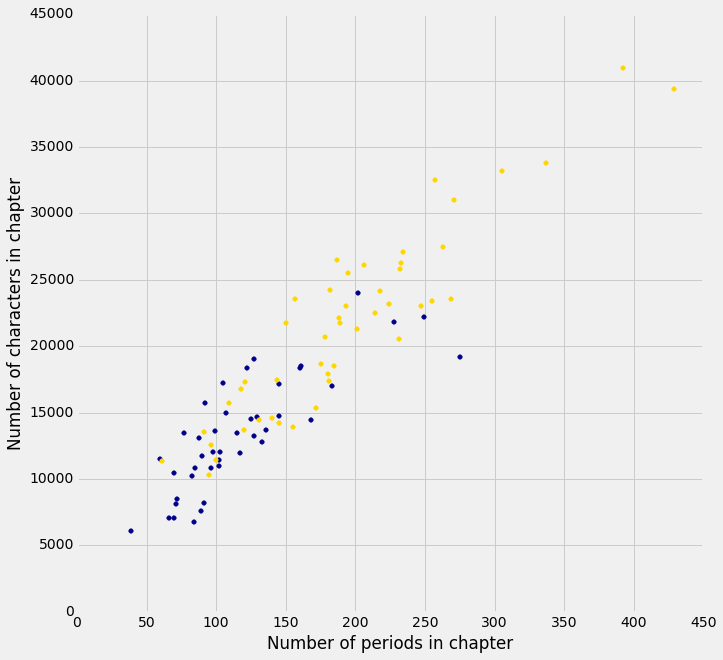
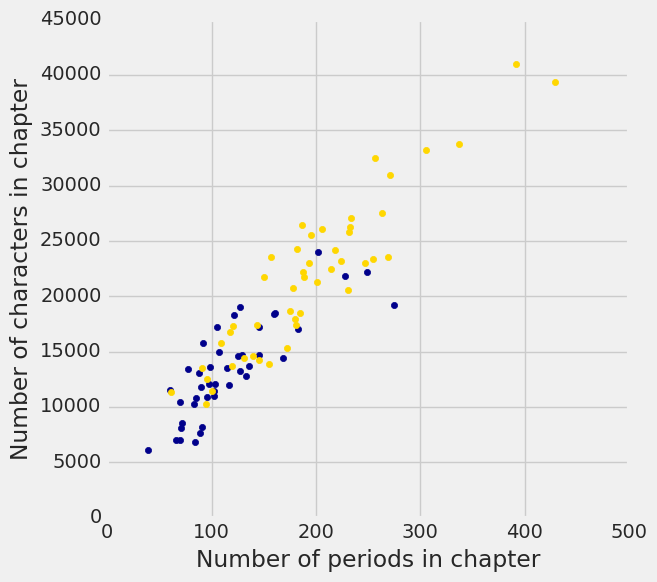
upgrade to gitbook 3.x.x

diff --git a/notebooks-html/Another_Kind_Of_Character.html b/notebooks-html/Another_Kind_Of_Character.html
@@ -10,34 +10,21 @@
   });
 </script>
 <div class="inner_cell">
-    <div class="input_area">
-<div class=" highlight hl-ipython3"><pre><span></span><span class="c1">#HIDDEN</span>
-<span class="c1"># Read two books, fast!  (We're just repeating the setup from the previous section.)</span>
-<span class="n">huck_finn_url</span> <span class="o">=</span> <span class="s1">'https://github.com/data-8/data8assets/raw/gh-pages/lec/huck_finn.txt'</span>
-<span class="n">huck_finn_text</span> <span class="o">=</span> <span class="n">read_url</span><span class="p">(</span><span class="n">huck_finn_url</span><span class="p">)</span>
-<span class="n">huck_finn_chapters</span> <span class="o">=</span> <span class="n">huck_finn_text</span><span class="o">.</span><span class="n">split</span><span class="p">(</span><span class="s1">'CHAPTER '</span><span class="p">)[</span><span class="mi">44</span><span class="p">:]</span>
-
-<span class="n">little_women_url</span> <span class="o">=</span> <span class="s1">'https://github.com/data-8/data8assets/raw/gh-pages/lec/little_women.txt'</span>
-<span class="n">little_women_text</span> <span class="o">=</span> <span class="n">read_url</span><span class="p">(</span><span class="n">little_women_url</span><span class="p">)</span>
-<span class="n">little_women_chapters</span> <span class="o">=</span> <span class="n">little_women_text</span><span class="o">.</span><span class="n">split</span><span class="p">(</span><span class="s1">'CHAPTER '</span><span class="p">)[</span><span class="mi">1</span><span class="p">:]</span>
-</pre></div></div></div>
-<div class="inner_cell">
 <div class="text_cell_render border-box-sizing rendered_html">
 <p>In some situations, the relationships between quantities allow us to make predictions. This text will explore how to make accurate predictions based on incomplete information and develop methods for combining multiple sources of uncertain information to make decisions.</p>
-<p>As an example of visualizing information derived from multiple sources, let us first use the computer to get some information that would be tedious to acquire by hand.</p>
-<p>In the context of novels, the word "character" has a second meaning: a printed symbol such as a letter or number or punctuation symbol. Here, we ask the computer to count the number of characters and the number of periods in each chapter of both <em>Huckleberry Finn</em> and <em>Little Women</em>.</p></div></div>
+<p>As an example of visualizing information derived from multiple sources, let us first use the computer to get some information that would be tedious to acquire by hand. In the context of novels, the word "character" has a second meaning: a printed symbol such as a letter or number or punctuation symbol. Here, we ask the computer to count the number of characters and the number of periods in each chapter of both <em>Huckleberry Finn</em> and <em>Little Women</em>.</p></div></div>
 <div class="inner_cell">
     <div class="input_area">
 <div class=" highlight hl-ipython3"><pre><span></span><span class="c1"># In each chapter, count the number of all characters;</span>
 <span class="c1"># call this the "length" of the chapter.</span>
 <span class="c1"># Also count the number of periods.</span>
 
-<span class="n">chars_periods_HF</span> <span class="o">=</span> <span class="n">Table</span><span class="p">()</span><span class="o">.</span><span class="n">with_columns</span><span class="p">([</span>
-        <span class="s1">'HF Chapter Length'</span><span class="p">,</span> <span class="p">[</span><span class="nb">len</span><span class="p">(</span><span class="n">s</span><span class="p">)</span> <span class="k">for</span> <span class="n">s</span> <span class="ow">in</span> <span class="n">huck_finn_chapters</span><span class="p">],</span>
+<span class="n">chars_periods_huck_finn</span> <span class="o">=</span> <span class="n">Table</span><span class="p">()</span><span class="o">.</span><span class="n">with_columns</span><span class="p">([</span>
+        <span class="s1">'Huck Finn Chapter Length'</span><span class="p">,</span> <span class="p">[</span><span class="nb">len</span><span class="p">(</span><span class="n">s</span><span class="p">)</span> <span class="k">for</span> <span class="n">s</span> <span class="ow">in</span> <span class="n">huck_finn_chapters</span><span class="p">],</span>
         <span class="s1">'Number of Periods'</span><span class="p">,</span> <span class="n">np</span><span class="o">.</span><span class="n">char</span><span class="o">.</span><span class="n">count</span><span class="p">(</span><span class="n">huck_finn_chapters</span><span class="p">,</span> <span class="s1">'.'</span><span class="p">)</span>
     <span class="p">])</span>
-<span class="n">chars_periods_LW</span> <span class="o">=</span> <span class="n">Table</span><span class="p">()</span><span class="o">.</span><span class="n">with_columns</span><span class="p">([</span>
-        <span class="s1">'LW Chapter Length'</span><span class="p">,</span> <span class="p">[</span><span class="nb">len</span><span class="p">(</span><span class="n">s</span><span class="p">)</span> <span class="k">for</span> <span class="n">s</span> <span class="ow">in</span> <span class="n">little_women_chapters</span><span class="p">],</span>
+<span class="n">chars_periods_little_women</span> <span class="o">=</span> <span class="n">Table</span><span class="p">()</span><span class="o">.</span><span class="n">with_columns</span><span class="p">([</span>
+        <span class="s1">'Little Women Chapter Length'</span><span class="p">,</span> <span class="p">[</span><span class="nb">len</span><span class="p">(</span><span class="n">s</span><span class="p">)</span> <span class="k">for</span> <span class="n">s</span> <span class="ow">in</span> <span class="n">little_women_chapters</span><span class="p">],</span>
         <span class="s1">'Number of Periods'</span><span class="p">,</span> <span class="n">np</span><span class="o">.</span><span class="n">char</span><span class="o">.</span><span class="n">count</span><span class="p">(</span><span class="n">little_women_chapters</span><span class="p">,</span> <span class="s1">'.'</span><span class="p">)</span>
     <span class="p">])</span>
 </pre></div></div></div>
@@ -46,56 +33,54 @@
 <p>Here are the data for <em>Huckleberry Finn</em>. Each row of the table corresponds to one chapter of the novel and displays the number of characters as well as the number of periods in the chapter. Not surprisingly, chapters with fewer characters also tend to have fewer periods, in general – the shorter the chapter, the fewer sentences there tend to be, and vice versa. The relation is not entirely predictable, however, as sentences are of varying lengths and can involve other punctuation such as question marks.</p></div></div>
 <div class="inner_cell">
     <div class="input_area">
-<div class=" highlight hl-ipython3"><pre><span></span><span class="c1"># The counts for Huckleberry Finn</span>
-
-<span class="n">chars_periods_HF</span>
+<div class=" highlight hl-ipython3"><pre><span></span><span class="n">chars_periods_huck_finn</span>
 </pre></div></div></div>
 <div class="output_html rendered_html output_subarea output_execute_result">
 <table border="1" class="dataframe">
     <thead>
         <tr>
-            <th>HF Chapter Length</th> <th>Number of Periods</th>
+            <th>Huck Finn Chapter Length</th> <th>Number of Periods</th>
         </tr>
     </thead>
     <tbody>
         <tr>
-            <td>7026             </td> <td>66               </td>
+            <td>7026                    </td> <td>66               </td>
         </tr>
     </tbody>
         <tbody><tr>
-            <td>11982            </td> <td>117              </td>
+            <td>11982                   </td> <td>117              </td>
         </tr>
     </tbody>
         <tbody><tr>
-            <td>8529             </td> <td>72               </td>
+            <td>8529                    </td> <td>72               </td>
         </tr>
     </tbody>
         <tbody><tr>
-            <td>6799             </td> <td>84               </td>
+            <td>6799                    </td> <td>84               </td>
         </tr>
     </tbody>
         <tbody><tr>
-            <td>8166             </td> <td>91               </td>
+            <td>8166                    </td> <td>91               </td>
         </tr>
     </tbody>
         <tbody><tr>
-            <td>14550            </td> <td>125              </td>
+            <td>14550                   </td> <td>125              </td>
         </tr>
     </tbody>
         <tbody><tr>
-            <td>13218            </td> <td>127              </td>
+            <td>13218                   </td> <td>127              </td>
         </tr>
     </tbody>
         <tbody><tr>
-            <td>22208            </td> <td>249              </td>
+            <td>22208                   </td> <td>249              </td>
         </tr>
     </tbody>
         <tbody><tr>
-            <td>8081             </td> <td>71               </td>
+            <td>8081                    </td> <td>71               </td>
         </tr>
     </tbody>
         <tbody><tr>
-            <td>7036             </td> <td>70               </td>
+            <td>7036                    </td> <td>70               </td>
         </tr>
     </tbody>
 </table>
@@ -105,56 +90,54 @@
 <p>Here are the corresponding data for <em>Little Women</em>.</p></div></div>
 <div class="inner_cell">
     <div class="input_area">
-<div class=" highlight hl-ipython3"><pre><span></span><span class="c1"># The counts for Little Women</span>
-
-<span class="n">chars_periods_LW</span>
+<div class=" highlight hl-ipython3"><pre><span></span><span class="n">chars_periods_little_women</span>
 </pre></div></div></div>
 <div class="output_html rendered_html output_subarea output_execute_result">
 <table border="1" class="dataframe">
     <thead>
         <tr>
-            <th>LW Chapter Length</th> <th>Number of Periods</th>
+            <th>Little Women Chapter Length</th> <th>Number of Periods</th>
         </tr>
     </thead>
     <tbody>
         <tr>
-            <td>21759            </td> <td>189              </td>
+            <td>21759                      </td> <td>189              </td>
         </tr>
     </tbody>
         <tbody><tr>
-            <td>22148            </td> <td>188              </td>
+            <td>22148                      </td> <td>188              </td>
         </tr>
     </tbody>
         <tbody><tr>
-            <td>20558            </td> <td>231              </td>
+            <td>20558                      </td> <td>231              </td>
         </tr>
     </tbody>
         <tbody><tr>
-            <td>25526            </td> <td>195              </td>
+            <td>25526                      </td> <td>195              </td>
         </tr>
     </tbody>
         <tbody><tr>
-            <td>23395            </td> <td>255              </td>
+            <td>23395                      </td> <td>255              </td>
         </tr>
     </tbody>
         <tbody><tr>
-            <td>14622            </td> <td>140              </td>
+            <td>14622                      </td> <td>140              </td>
         </tr>
     </tbody>
         <tbody><tr>
-            <td>14431            </td> <td>131              </td>
+            <td>14431                      </td> <td>131              </td>
         </tr>
     </tbody>
         <tbody><tr>
-            <td>22476            </td> <td>214              </td>
+            <td>22476                      </td> <td>214              </td>
         </tr>
     </tbody>
         <tbody><tr>
-            <td>33767            </td> <td>337              </td>
+            <td>33767                      </td> <td>337              </td>
         </tr>
     </tbody>
         <tbody><tr>
-            <td>18508            </td> <td>185              </td>
+            <td>18508                      </td> <td>185              </td>
         </tr>
     </tbody>
 </table>
@@ -165,9 +148,13 @@
 <p>In the plot below, there is a dot for each chapter in each book. Blue dots correspond to <em>Huckleberry Finn</em> and gold dots to <em>Little Women</em>. The horizontal axis represents the number of periods and the vertical axis represents the number of characters.</p></div></div>
 <div class="inner_cell">
     <div class="input_area">
-<div class=" highlight hl-ipython3"><pre><span></span><span class="n">plots</span><span class="o">.</span><span class="n">figure</span><span class="p">(</span><span class="n">figsize</span><span class="o">=</span><span class="p">(</span><span class="mi">10</span><span class="p">,</span><span class="mi">10</span><span class="p">))</span>
-<span class="n">plots</span><span class="o">.</span><span class="n">scatter</span><span class="p">(</span><span class="n">chars_periods_hf</span><span class="p">[</span><span class="mi">1</span><span class="p">],</span> <span class="n">chars_periods_hf</span><span class="p">[</span><span class="mi">0</span><span class="p">],</span> <span class="n">color</span><span class="o">=</span><span class="s1">'darkblue'</span><span class="p">)</span>
-<span class="n">plots</span><span class="o">.</span><span class="n">scatter</span><span class="p">(</span><span class="n">chars_periods_lw</span><span class="p">[</span><span class="mi">1</span><span class="p">],</span> <span class="n">chars_periods_lw</span><span class="p">[</span><span class="mi">0</span><span class="p">],</span> <span class="n">color</span><span class="o">=</span><span class="s1">'gold'</span><span class="p">)</span>
+<div class=" highlight hl-ipython3"><pre><span></span><span class="n">plots</span><span class="o">.</span><span class="n">figure</span><span class="p">(</span><span class="n">figsize</span><span class="o">=</span><span class="p">(</span><span class="mi">6</span><span class="p">,</span> <span class="mi">6</span><span class="p">))</span>
+<span class="n">plots</span><span class="o">.</span><span class="n">scatter</span><span class="p">(</span><span class="n">chars_periods_huck_finn</span><span class="o">.</span><span class="n">column</span><span class="p">(</span><span class="mi">1</span><span class="p">),</span> 
+              <span class="n">chars_periods_huck_finn</span><span class="o">.</span><span class="n">column</span><span class="p">(</span><span class="mi">0</span><span class="p">),</span> 
+              <span class="n">color</span><span class="o">=</span><span class="s1">'darkblue'</span><span class="p">)</span>
+<span class="n">plots</span><span class="o">.</span><span class="n">scatter</span><span class="p">(</span><span class="n">chars_periods_little_women</span><span class="o">.</span><span class="n">column</span><span class="p">(</span><span class="mi">1</span><span class="p">),</span> 
+              <span class="n">chars_periods_little_women</span><span class="o">.</span><span class="n">column</span><span class="p">(</span><span class="mi">0</span><span class="p">),</span> 
+              <span class="n">color</span><span class="o">=</span><span class="s1">'gold'</span><span class="p">)</span>
 <span class="n">plots</span><span class="o">.</span><span class="n">xlabel</span><span class="p">(</span><span class="s1">'Number of periods in chapter'</span><span class="p">)</span>
 <span class="n">plots</span><span class="o">.</span><span class="n">ylabel</span><span class="p">(</span><span class="s1">'Number of characters in chapter'</span><span class="p">);</span>
 </pre></div></div></div>

diff --git a/notebooks-html/Literary_Characters.html b/notebooks-html/Literary_Characters.html
@@ -10,18 +10,6 @@
   });
 </script>
 <div class="inner_cell">
-    <div class="input_area">
-<div class=" highlight hl-ipython3"><pre><span></span><span class="c1">#HIDDEN</span>
-<span class="c1"># Read two books, fast!  (We're just repeating the setup from the previous section.)</span>
-<span class="n">huck_finn_url</span> <span class="o">=</span> <span class="s1">'https://github.com/data-8/data8assets/raw/gh-pages/lec/huck_finn.txt'</span>
-<span class="n">huck_finn_text</span> <span class="o">=</span> <span class="n">read_url</span><span class="p">(</span><span class="n">huck_finn_url</span><span class="p">)</span>
-<span class="n">huck_finn_chapters</span> <span class="o">=</span> <span class="n">huck_finn_text</span><span class="o">.</span><span class="n">split</span><span class="p">(</span><span class="s1">'CHAPTER '</span><span class="p">)[</span><span class="mi">44</span><span class="p">:]</span>
-
-<span class="n">little_women_url</span> <span class="o">=</span> <span class="s1">'https://github.com/data-8/data8assets/raw/gh-pages/lec/little_women.txt'</span>
-<span class="n">little_women_text</span> <span class="o">=</span> <span class="n">read_url</span><span class="p">(</span><span class="n">little_women_url</span><span class="p">)</span>
-<span class="n">little_women_chapters</span> <span class="o">=</span> <span class="n">little_women_text</span><span class="o">.</span><span class="n">split</span><span class="p">(</span><span class="s1">'CHAPTER '</span><span class="p">)[</span><span class="mi">1</span><span class="p">:]</span>
-</pre></div></div></div>
-<div class="inner_cell">
 <div class="text_cell_render border-box-sizing rendered_html">
 <p><em>The Adventures of Huckleberry Finn</em> describes a journey that Huck and Jim take along the Mississippi River. Tom Sawyer joins them towards the end as the action heats up. Having loaded the text, we can quickly visualize how many times these characters have each been mentioned at any point in the book.</p></div></div>
 <div class="inner_cell">
@@ -33,21 +21,19 @@
         <span class="s1">'Tom'</span><span class="p">,</span> <span class="n">np</span><span class="o">.</span><span class="n">char</span><span class="o">.</span><span class="n">count</span><span class="p">(</span><span class="n">huck_finn_chapters</span><span class="p">,</span> <span class="s1">'Tom'</span><span class="p">),</span>
         <span class="s1">'Huck'</span><span class="p">,</span> <span class="n">np</span><span class="o">.</span><span class="n">char</span><span class="o">.</span><span class="n">count</span><span class="p">(</span><span class="n">huck_finn_chapters</span><span class="p">,</span> <span class="s1">'Huck'</span><span class="p">)</span>
     <span class="p">])</span>
-</pre></div></div></div>
-<div class="inner_cell">
-    <div class="input_area">
-<div class=" highlight hl-ipython3"><pre><span></span><span class="c1"># Plot the cumulative counts:</span>
+
+<span class="c1"># Plot the cumulative counts:</span>
 <span class="c1"># how many times in Chapter 1, how many times in Chapters 1 and 2, and so on.</span>
 
 <span class="n">cum_counts</span> <span class="o">=</span> <span class="n">counts</span><span class="o">.</span><span class="n">cumsum</span><span class="p">()</span><span class="o">.</span><span class="n">with_column</span><span class="p">(</span><span class="s1">'Chapter'</span><span class="p">,</span> <span class="n">np</span><span class="o">.</span><span class="n">arange</span><span class="p">(</span><span class="mi">1</span><span class="p">,</span> <span class="mi">44</span><span class="p">,</span> <span class="mi">1</span><span class="p">))</span>
 <span class="n">cum_counts</span><span class="o">.</span><span class="n">plot</span><span class="p">(</span><span class="n">column_for_xticks</span><span class="o">=</span><span class="mi">3</span><span class="p">)</span>
-<span class="n">plots</span><span class="o">.</span><span class="n">title</span><span class="p">(</span><span class="s1">'Cumulative Number of Times Name Appears'</span><span class="p">);</span>
+<span class="n">plots</span><span class="o">.</span><span class="n">title</span><span class="p">(</span><span class="s1">'Cumulative Number of Times Each Name Appears'</span><span class="p">,</span> <span class="n">y</span><span class="o">=</span><span class="mf">1.08</span><span class="p">);</span>
 </pre></div></div></div>
 <div class="output_png output_subarea ">
-<img src="/notebooks-images/Literary_Characters_4_0.png"/></div>
+<img src="/notebooks-images/Literary_Characters_3_0.png"/></div>
 <div class="inner_cell">
 <div class="text_cell_render border-box-sizing rendered_html">
-<p>In the plot above, the horizontal axis shows chapter numbers and the vertical axis shows how many times each character has been mentioned upto and including that chapter.</p>
+<p>In the plot above, the horizontal axis shows chapter numbers and the vertical axis shows how many times each character has been mentioned up to and including that chapter.</p>
 <p>You can see that Jim is a central character by the large number of times his name appears. Notice how Tom is hardly mentioned for much of the book until he arrives and joins Huck and Jim, after Chapter 30. His curve and Jim's rise sharply at that point, as the action involving both of them intensifies. As for Huck, his name hardly appears at all, because he is the narrator.</p></div></div>
 <div class="inner_cell">
 <div class="text_cell_render border-box-sizing rendered_html">
@@ -115,27 +101,23 @@
     <div class="input_area">
 <div class=" highlight hl-ipython3"><pre><span></span><span class="c1"># Counts of names in the chapters of Little Women</span>
 
-<span class="n">people</span> <span class="o">=</span> <span class="p">[</span><span class="s1">'Amy'</span><span class="p">,</span> <span class="s1">'Beth'</span><span class="p">,</span> <span class="s1">'Jo'</span><span class="p">,</span> <span class="s1">'Laurie'</span><span class="p">,</span> <span class="s1">'Meg'</span><span class="p">]</span>
-<span class="n">people_counts</span> <span class="o">=</span> <span class="p">{</span><span class="n">pp</span><span class="p">:</span> <span class="n">np</span><span class="o">.</span><span class="n">char</span><span class="o">.</span><span class="n">count</span><span class="p">(</span><span class="n">little_women_chapters</span><span class="p">,</span> <span class="n">pp</span><span class="p">)</span> <span class="k">for</span> <span class="n">pp</span> <span class="ow">in</span> <span class="n">people</span><span class="p">}</span>
-
 <span class="n">counts</span> <span class="o">=</span> <span class="n">Table</span><span class="p">()</span><span class="o">.</span><span class="n">with_columns</span><span class="p">([</span>
-        <span class="s1">'Amy'</span><span class="p">,</span> <span class="n">people_counts</span><span class="p">[</span><span class="s1">'Amy'</span><span class="p">],</span>
-        <span class="s1">'Beth'</span><span class="p">,</span> <span class="n">people_counts</span><span class="p">[</span><span class="s1">'Beth'</span><span class="p">],</span>
-        <span class="s1">'Jo'</span><span class="p">,</span> <span class="n">people_counts</span><span class="p">[</span><span class="s1">'Jo'</span><span class="p">],</span>
-        <span class="s1">'Laurie'</span><span class="p">,</span> <span class="n">people_counts</span><span class="p">[</span><span class="s1">'Laurie'</span><span class="p">],</span>
-        <span class="s1">'Meg'</span><span class="p">,</span> <span class="n">people_counts</span><span class="p">[</span><span class="s1">'Meg'</span><span class="p">]</span>
+        <span class="s1">'Amy'</span><span class="p">,</span> <span class="n">np</span><span class="o">.</span><span class="n">char</span><span class="o">.</span><span class="n">count</span><span class="p">(</span><span class="n">little_women_chapters</span><span class="p">,</span> <span class="s1">'Amy'</span><span class="p">),</span>
+        <span class="s1">'Beth'</span><span class="p">,</span> <span class="n">np</span><span class="o">.</span><span class="n">char</span><span class="o">.</span><span class="n">count</span><span class="p">(</span><span class="n">little_women_chapters</span><span class="p">,</span> <span class="s1">'Beth'</span><span class="p">),</span>
+        <span class="s1">'Jo'</span><span class="p">,</span> <span class="n">np</span><span class="o">.</span><span class="n">char</span><span class="o">.</span><span class="n">count</span><span class="p">(</span><span class="n">little_women_chapters</span><span class="p">,</span> <span class="s1">'Jo'</span><span class="p">),</span>
+        <span class="s1">'Meg'</span><span class="p">,</span> <span class="n">np</span><span class="o">.</span><span class="n">char</span><span class="o">.</span><span class="n">count</span><span class="p">(</span><span class="n">little_women_chapters</span><span class="p">,</span> <span class="s1">'Meg'</span><span class="p">),</span>
+        <span class="s1">'Laurie'</span><span class="p">,</span> <span class="n">np</span><span class="o">.</span><span class="n">char</span><span class="o">.</span><span class="n">count</span><span class="p">(</span><span class="n">little_women_chapters</span><span class="p">,</span> <span class="s1">'Laurie'</span><span class="p">),</span>
+
     <span class="p">])</span>
-</pre></div></div></div>
-<div class="inner_cell">
-    <div class="input_area">
-<div class=" highlight hl-ipython3"><pre><span></span><span class="c1"># Plot the cumulative counts.</span>
+
+<span class="c1"># Plot the cumulative counts.</span>
 
 <span class="n">cum_counts</span> <span class="o">=</span> <span class="n">counts</span><span class="o">.</span><span class="n">cumsum</span><span class="p">()</span><span class="o">.</span><span class="n">with_column</span><span class="p">(</span><span class="s1">'Chapter'</span><span class="p">,</span> <span class="n">np</span><span class="o">.</span><span class="n">arange</span><span class="p">(</span><span class="mi">1</span><span class="p">,</span> <span class="mi">48</span><span class="p">,</span> <span class="mi">1</span><span class="p">))</span>
 <span class="n">cum_counts</span><span class="o">.</span><span class="n">plot</span><span class="p">(</span><span class="n">column_for_xticks</span><span class="o">=</span><span class="mi">5</span><span class="p">)</span>
-<span class="n">plots</span><span class="o">.</span><span class="n">title</span><span class="p">(</span><span class="s1">'Cumulative Number of Times Name Appears'</span><span class="p">);</span>
+<span class="n">plots</span><span class="o">.</span><span class="n">title</span><span class="p">(</span><span class="s1">'Cumulative Number of Times Each Name Appears'</span><span class="p">,</span> <span class="n">y</span><span class="o">=</span><span class="mf">1.08</span><span class="p">);</span>
 </pre></div></div></div>
 <div class="output_png output_subarea ">
-<img src="/notebooks-images/Literary_Characters_10_0.png"/></div>
+<img src="/notebooks-images/Literary_Characters_8_0.png"/></div>
 <div class="inner_cell">
 <div class="text_cell_render border-box-sizing rendered_html">
 <p>Laurie is a young man who marries one of the girls in the end. See if you can use the plots to guess which one.</p></div></div></div>

diff --git a/notebooks-html/Plotting_the_Classics.html b/notebooks-html/Plotting_the_Classics.html
@@ -13,22 +13,22 @@
 <div class="text_cell_render border-box-sizing rendered_html">
 <p>In this example, we will explore statistics for two classic novels: <em>The Adventures of Huckleberry Finn</em> by Mark Twain, and <em>Little Women</em> by Louisa May Alcott. The text of any book can be read by a computer at great speed. Books published before 1923 are currently in the <em>public domain</em>, meaning that everyone has the right to copy or use the text in any way. <a href="http://www.gutenberg.org/">Project Gutenberg</a> is a website that publishes public domain books online. Using Python, we can load the text of these books directly from the web.</p>
 <p>This example is meant to illustrate some of the broad themes of this text. Don't worry if the details of the program don't yet make sense. Instead, focus on interpreting the images generated below. Later sections of the text will describe most of the features of the Python programming language used below.</p>
-<p>First, we read the text of both books into lists of chapters, called <code>huck_finn_chapters</code> and <code>little_women_chapters</code>. In Python, a name cannot contain any spaces, and so we will of often use an underscore <code>_</code> to stand in for a space. The <code>=</code> in the lines below give a name on the left to the result of some computation described on the right. A <em>uniform resource locator</em> or <em>URL</em> is an address on the Internet for some content; in this case, the text of a book.</p></div></div>
+<p>First, we read the text of both books into lists of chapters, called <code>huck_finn_chapters</code> and <code>little_women_chapters</code>. In Python, a name cannot contain any spaces, and so we will often use an underscore <code>_</code> to stand in for a space. The <code>=</code> in the lines below give a name on the left to the result of some computation described on the right. A <em>uniform resource locator</em> or <em>URL</em> is an address on the Internet for some content; in this case, the text of a book. The <code>#</code> symbol starts a comment, which is ignored by the computer but helpful for people reading the code.</p></div></div>
 <div class="inner_cell">
     <div class="input_area">
 <div class=" highlight hl-ipython3"><pre><span></span><span class="c1"># Read two books, fast!</span>
 
-<span class="n">huck_finn_url</span> <span class="o">=</span> <span class="s1">'https://github.com/data-8/data8assets/raw/gh-pages/lec/huck_finn.txt'</span>
+<span class="n">huck_finn_url</span> <span class="o">=</span> <span class="s1">'http://data8.org/data8assets/lec/huck_finn.txt'</span>
 <span class="n">huck_finn_text</span> <span class="o">=</span> <span class="n">read_url</span><span class="p">(</span><span class="n">huck_finn_url</span><span class="p">)</span>
 <span class="n">huck_finn_chapters</span> <span class="o">=</span> <span class="n">huck_finn_text</span><span class="o">.</span><span class="n">split</span><span class="p">(</span><span class="s1">'CHAPTER '</span><span class="p">)[</span><span class="mi">44</span><span class="p">:]</span>
 
-<span class="n">little_women_url</span> <span class="o">=</span> <span class="s1">'https://github.com/data-8/data8assets/raw/gh-pages/lec/little_women.txt'</span>
+<span class="n">little_women_url</span> <span class="o">=</span> <span class="s1">'http://data8.org/data8assets/lec/little_women.txt'</span>
 <span class="n">little_women_text</span> <span class="o">=</span> <span class="n">read_url</span><span class="p">(</span><span class="n">little_women_url</span><span class="p">)</span>
 <span class="n">little_women_chapters</span> <span class="o">=</span> <span class="n">little_women_text</span><span class="o">.</span><span class="n">split</span><span class="p">(</span><span class="s1">'CHAPTER '</span><span class="p">)[</span><span class="mi">1</span><span class="p">:]</span>
 </pre></div></div></div>
 <div class="inner_cell">
 <div class="text_cell_render border-box-sizing rendered_html">
-<p>While a computer cannot understand the text of a book, we can still use it to provide us with some insight into the structure of the text. The name <code>huck_finn_chapters</code> is currently bound to a list of all the chapters in the book. We can place those chapters into a table to see how each begins.</p></div></div>
+<p>While a computer cannot understand the text of a book, it can provide us with some insight into the structure of the text. The name <code>huck_finn_chapters</code> is currently bound to a list of all the chapters in the book. We can place them into a table to see how each chapter begins.</p></div></div>
 <div class="inner_cell">
     <div class="input_area">
 <div class=" highlight hl-ipython3"><pre><span></span><span class="c1"># Display the chapters of Huckleberry Finn in a table.</span>

diff --git a/README.md b/README.md
@@ -1,18 +1,26 @@
 Computational and Inferential Thinking
 ======================================
 
+<!-- Required to ensure that mathjax loads correctly... -->
+<script type="text/x-mathjax-config">
+  MathJax.Hub.Config({
+    tex2jax: {
+      inlineMath: [ ['$','$'], ["\\(","\\)"] ],
+      processEscapes: true
+    }
+  });
+</script>
+
 The Foundations of Data Science
 -------------------------------
 
 **By [Ani Adhikari](http://statistics.berkeley.edu/people/ani-adhikari) and [John DeNero](http://denero.org)**
 
-Contributions by [David Wagner](https://www.cs.berkeley.edu/~daw/)
+Contributions by [David Wagner](https://www.cs.berkeley.edu/~daw/) and Henry Milner
 
 This is the textbook for the [Foundations of Data Science class at UC Berkeley][data8].
 
 [View this textbook online on Gitbooks.][gitbook]
-
-[![Binder](http://mybinder.org/badge.svg)](http://mybinder.org/repo/data-8/textbook)
 
 [data8]: http://data8.org/
 [gitbook]: https://ds8.gitbooks.io/textbook/content/
